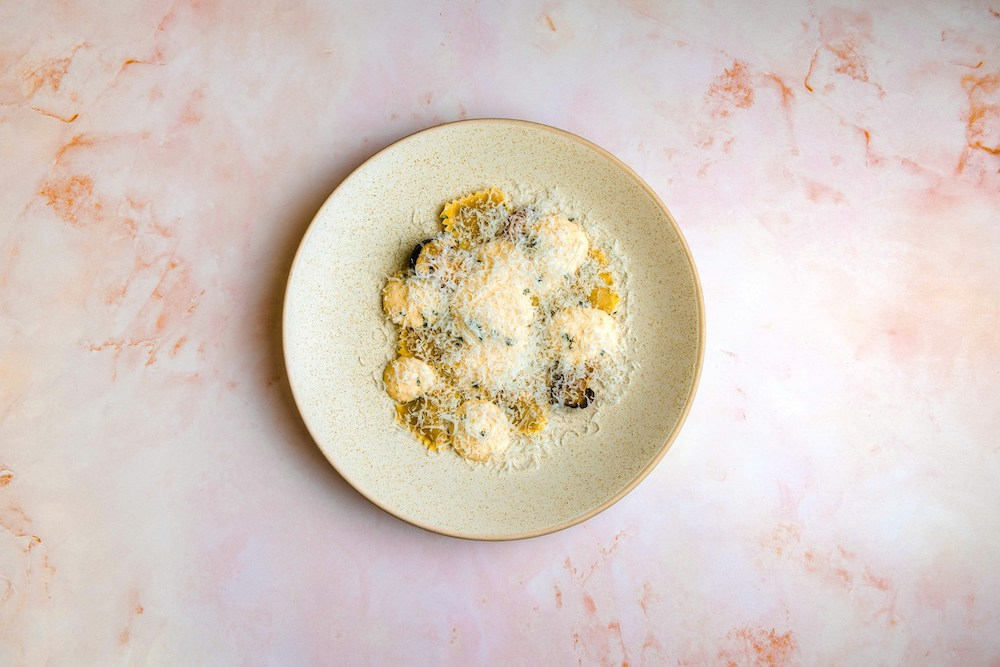
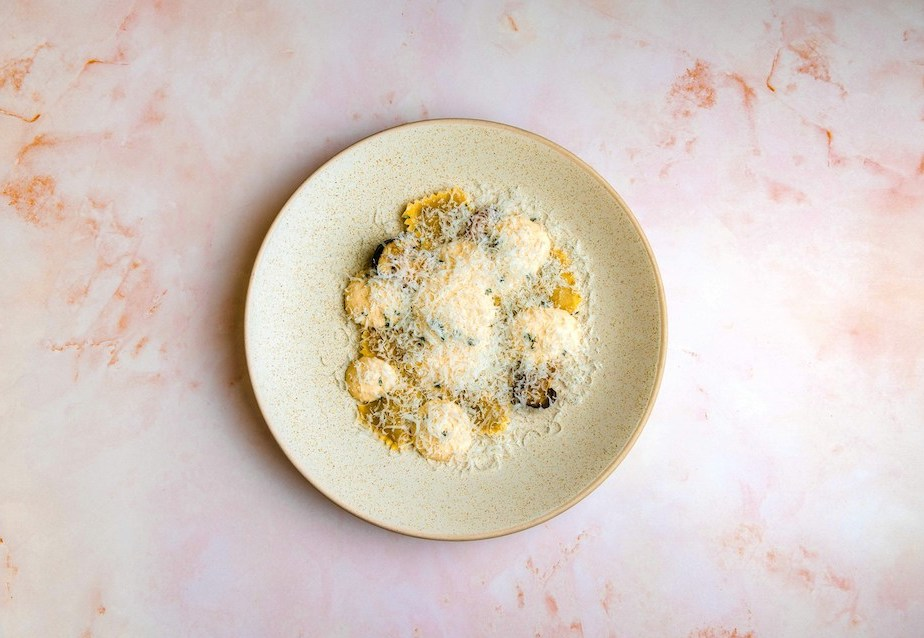
Mise en page bannière accueil

diff --git a/index.html b/index.html
@@ -3,7 +3,7 @@
 <head>
     <meta charset="UTF-8">
     <meta name="viewport" content="width=device-width, initial-scale=1.0">
-    <title>La Pasteria</title>
+    <title>Pastaio</title>
     
     <link rel="stylesheet" href="css/style.css">
     <link rel="icon" href="favicon.ico">
@@ -31,15 +31,18 @@
     <main>
         
         <section class="container flex-accueil">
-            <h1 class="nom-restaurant">La Pasteria</h1>
-            <p>Savourez nos délicieuses pâtes fraîches faites maison, accompagnées d'ingrédients locaux choisis avec soin. Une expérience culinaire authentique  dans une ambiance chaleureuse. Venez nous rendre visite aujourd'hui!</p>
-            <a href="./macommande.html">+ Commander en ligne</a>
-            <a href="./reservations.html">+ Réserver</a>
+            <div class="description-accueil"> 
+                <h1 class="nom-restaurant">Pastaio</h1>
+                <p>Savourez nos délicieuses pâtes fraîches faites maison, accompagnées d'ingrédients locaux choisis avec soin. Une expérience culinaire authentique  dans une ambiance chaleureuse. Venez nous rendre visite aujourd'hui!</p>
+                <a href="./macommande.html">+ Commander en ligne</a>
+                <a href="./reservations.html">+ Réserver</a>
+            </div>
+            <div class="container container-image">
+                <img src="img/accueil.jpg" alt="Assiette de tortelinis">
+            </div>
         </section>
-        <div>
-            <img src="img/accueil.jpg" alt="Assiette de tortelinis">
-        </div>
-
+       
+            
         <section class="container">
             <h3>Témoignages</h3>
             <p>Clients satisfaits</p>
@@ -58,25 +61,25 @@
                 <div>
                     <img src="img/client-3.jpg" alt="Client 1">
                     <p class="nom-client">Sophie Martin</p>
-                    <p>«Une explosion de saveurs chez La Pasteria. Les plats sont préparés avec soin et les ingrédients de qualité se marient parfaitement.  L'atmosphère intime et accueillante en fait un endroit idéal pour un dîner inoubliable..»</p>
+                    <p>«Une explosion de saveurs chez Pastaio. Les plats sont préparés avec soin et les ingrédients de qualité se marient parfaitement.  L'atmosphère intime et accueillante en fait un endroit idéal pour un dîner inoubliable..»</p>
                 </div>
 
                 <div>
                     <img src="img/client-4.jpg" alt="Client 1">
                     <p class="nom-client">Benjamin Mitchell</p>
-                    <p>«La Pasteria est un paradis pour les amateurs de cuisine italienne. Les pâtes et les desserts sont simplement décadents. Un équilibre parfait de saveurs et de textures dans un cadre charmant.»</p>
+                    <p>«Pastaio est un paradis pour les amateurs de cuisine italienne. Les pâtes et les desserts sont simplement décadents. Un équilibre parfait de saveurs et de textures dans un cadre charmant.»</p>
                 </div>
 
                 <div>
                     <img src="img/client-5.jpg" alt="Client 1">
                     <p class="nom-client">Lucas Bennett</p>
-                    <p>«Une expérience culinaire exquise. Les plats de La Pasteria sont délicieusement préparés avec des saveurs authentiques. Le service attentionné et l'ambiance charmante en font une expérience unique.»</p>
+                    <p>«Une expérience culinaire exquise. Les plats chez Pastaio sont délicieusement préparés avec des saveurs authentiques. Le service attentionné et l'ambiance charmante en font une expérience unique.»</p>
                 </div>
 
                 <div>
                     <img src="img/client-6.jpg" alt="Client 1">
                     <p class="nom-client">Mathis Dupuis</p>
-                    <p>«La Pasteria est un véritable délice pour les papilles. Leurs plats authentiques sont préparés avec passion et créativité. L'équipe attentionnée et l'atmosphère chaleureuse vous font sentir comme chez vous. Une expérience culinaire à ne pas manquer.»</p>
+                    <p>«Pastaio est un véritable délice pour les papilles. Leurs plats authentiques sont préparés avec passion et créativité. L'équipe attentionnée et l'atmosphère chaleureuse vous font sentir comme chez vous. Une expérience culinaire à ne pas manquer.»</p>
                 </div>
             
         </section>

diff --git a/css/style.css b/css/style.css
@@ -1,5 +1,22 @@
+/* Mise en page de base */
 body{
     font-family: 'Source Serif 4', serif;
+}
+
+header {
+    display: flex;
+    justify-content: space-between;
+    padding-right: 5%;
+    padding-left: 5%;
+}
+
+nav li {
+    display: inline-block;
+    margin: 20px 20px;
+}
+  
+nav {
+    text-align: right;
 }
 
 h1, h2, h3 {
@@ -10,11 +27,9 @@ h1, h2, h3 {
 .container{
     max-width: 1200px;
     margin: 0 auto;
-  }
-
-nav{
-    text-decoration: none;
 }
+
+/* Mise en page accueil*/
 
 a {
     text-decoration: none;
@@ -26,5 +41,13 @@ a {
 
 .flex-accueil{
     display: flex;
+    align-items: center;
+}
+
+.description-accueil{
     width: 20%;
+}
+
+.container-image{
+    width:70%;
 }
